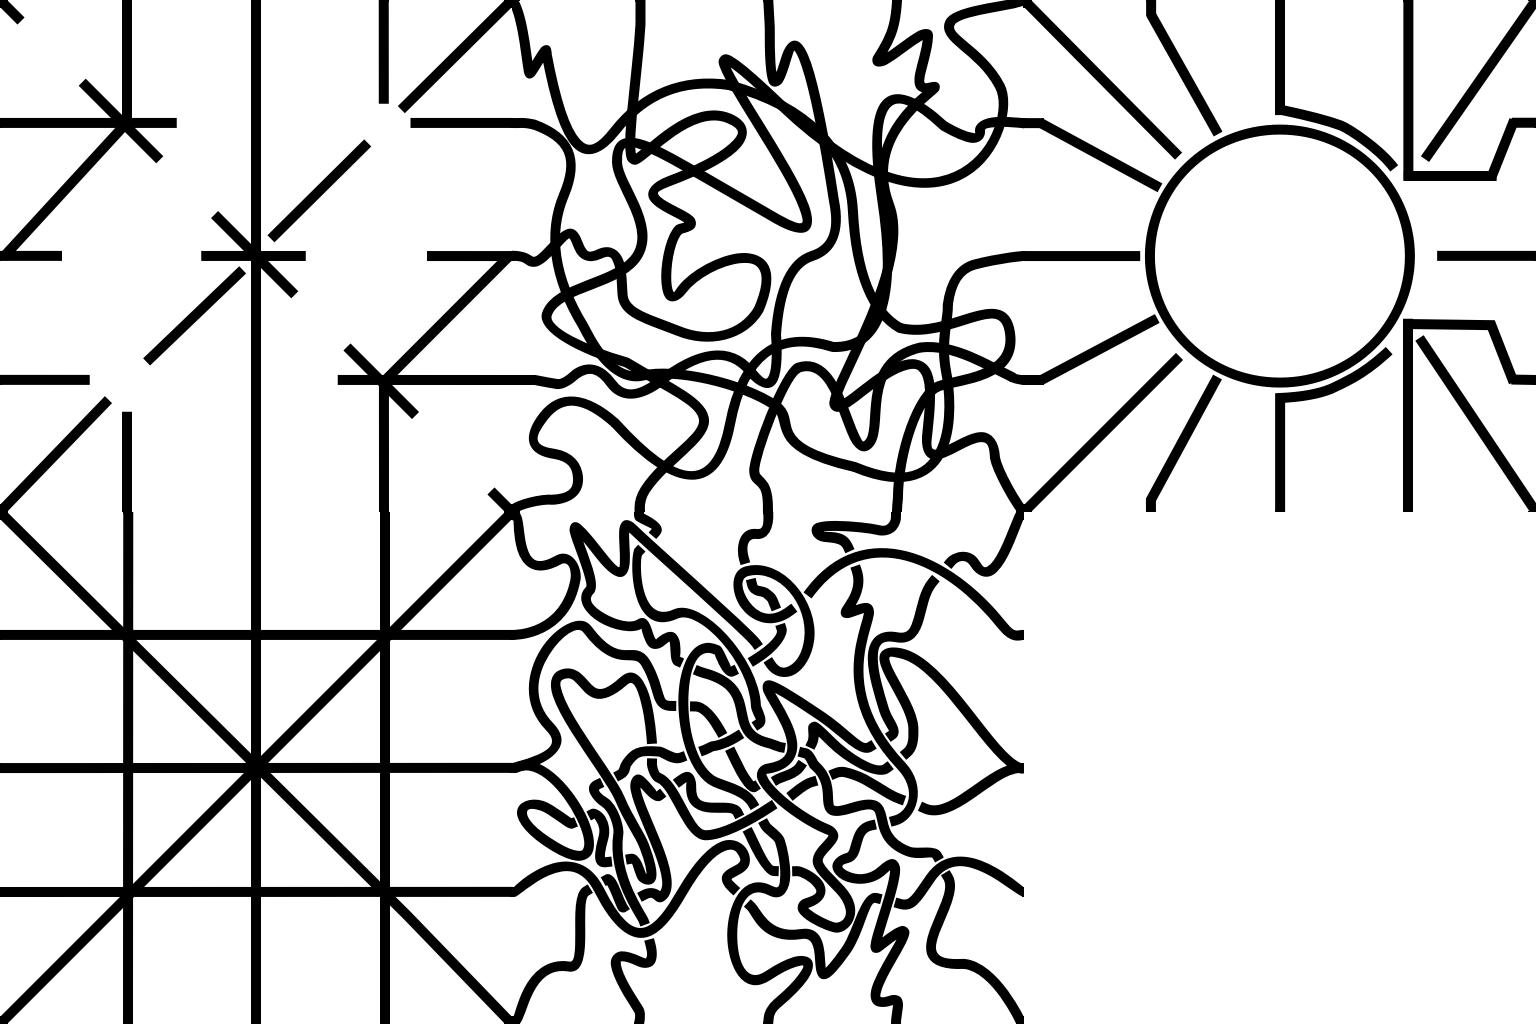
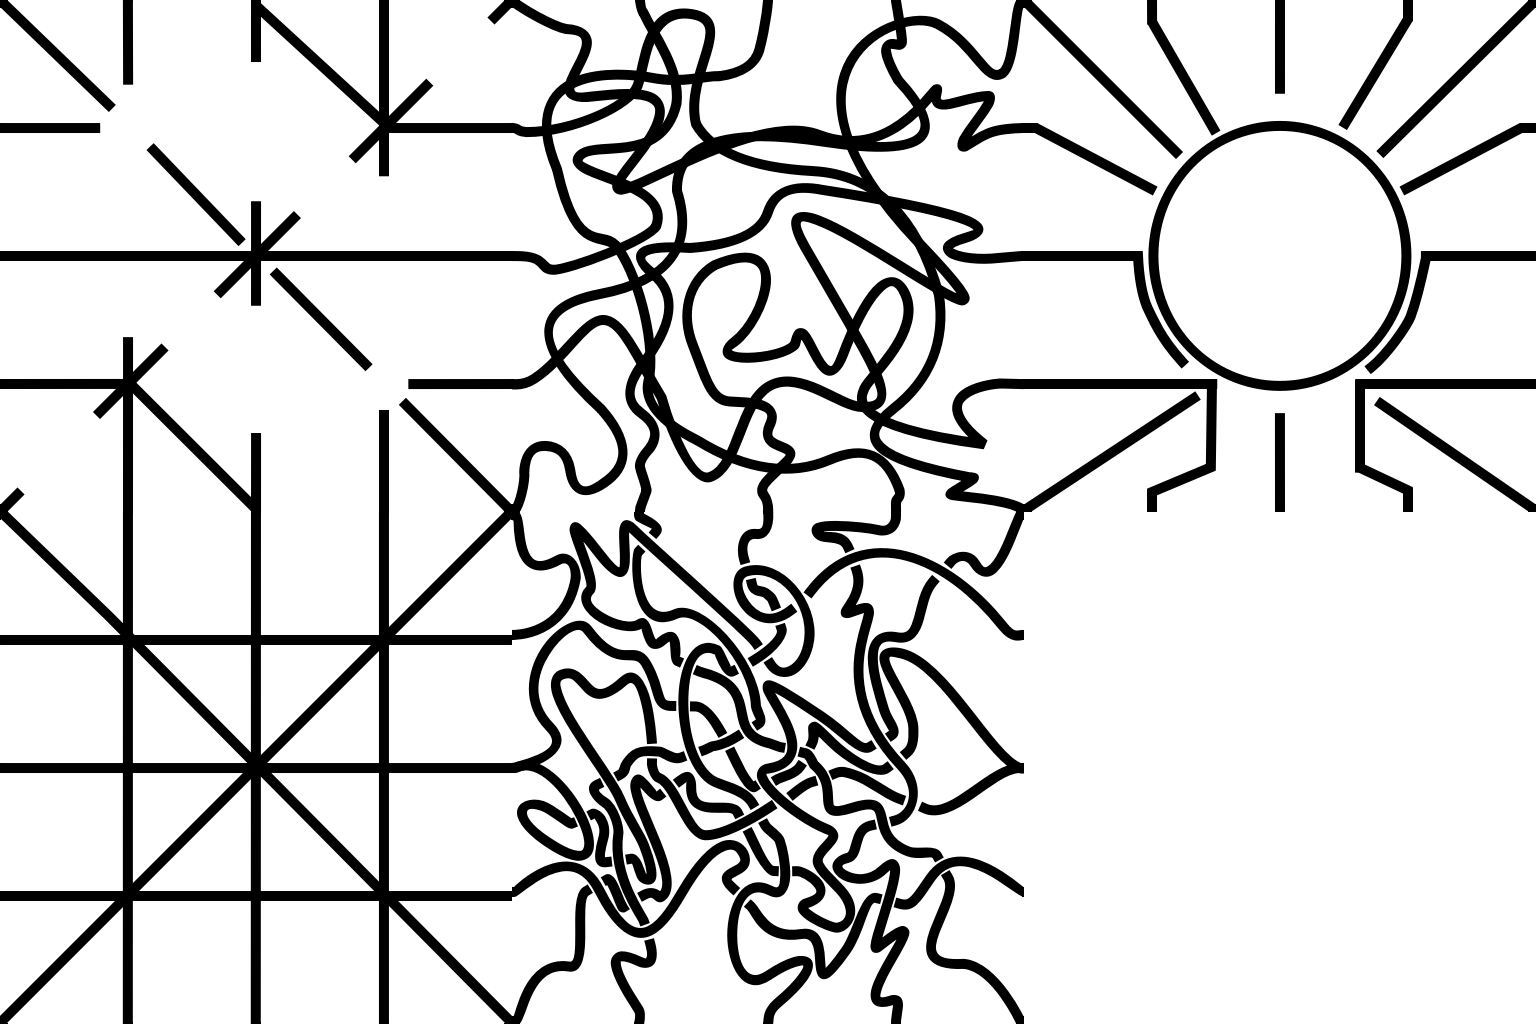
Added ability to exclude specific tiles and randomize direction of tiles

diff --git a/src/app/constants/constants.component.ts b/src/app/constants/constants.component.ts
@@ -1,15 +1,18 @@
 import { DOCUMENT } from '@angular/common';
-import { inject, InjectionToken } from '@angular/core';
+import { inject } from '@angular/core';
 
 export const TilePxSize = 512;
 export const TilesetRows = 3;
 export const TilesetCols = 2;
 export const TilesetPxWidth = TilePxSize * TilesetRows;
 export const TilesetPxHeight = TilePxSize * TilesetCols;
-export const TilesetOptions = 5;
+export const TilesetOptions = [0,1,2,3,4];
+const directions = ["", "right", "back", "left"]
+
 export class utilConstants {
   private readonly document = inject(DOCUMENT);
   private readonly window = this.document.defaultView;
+  private ExcludedTiles:number[] = [4]
   isMobile(): boolean {
     return /Android|webOS|iPhone|iPad|iPod|BlackBerry|IEMobile|Opera Mini/i.test(
       navigator.userAgent
@@ -34,5 +37,13 @@ export class utilConstants {
   }
   timeout(ms: number) {
     return new Promise((resolve) => setTimeout(resolve, ms));
+  }
+  getRandomFromAvailableTiles(){
+    let adjustedTileset = TilesetOptions.filter(element => !this.ExcludedTiles.includes(element));
+    let chosenId = Math.floor(Math.random() * adjustedTileset.length);
+    return adjustedTileset[chosenId];
+  }
+  getRandomDirection(){
+    return directions[Math.floor(Math.random()*4)];
   }
 }

diff --git a/src/app/tile-component/tile-component.component.ts b/src/app/tile-component/tile-component.component.ts
@@ -1,5 +1,5 @@
 import { Component, Input } from '@angular/core';
-import { TilesetRows, TilePxSize, TilesetPxHeight, TilesetPxWidth, TilesetOptions } from '../constants/constants.component';
+import { TilesetRows, TilePxSize, TilesetPxHeight, TilesetPxWidth, TilesetOptions, utilConstants } from '../constants/constants.component';
 @Component({
   selector: 'tile-component',
   imports: [],
@@ -7,16 +7,18 @@ import { TilesetRows, TilePxSize, TilesetPxHeight, TilesetPxWidth, TilesetOption
   styleUrl: './tile-component.component.scss'
 })
 export class TileComponent {
-  @Input() zoomLevel = 1
+  @Input() zoomLevel = 1 //set by app component
   tilePxSize = TilePxSize
   tilesetPxWidth = TilesetPxWidth
   tilesetPxHeight = TilesetPxHeight
+  util = new utilConstants();
 
-  tileId = Math.floor(Math.random() * TilesetOptions)
+  tileId = this.util.getRandomFromAvailableTiles()
   tileIdX = ((this.tileId) % TilesetRows)
   startPxX = this.tileIdX * TilePxSize * -1
   tileIdY = (Math.floor(this.tileId / TilesetRows))
-  startPxY = this.tileIdY * TilePxSize * -1
+  startPxY = this.tileIdY * TilePxSize * -1;
+  direction = this.util.getRandomDirection();
 
   constructor(){
   }

diff --git a/src/app/app.component.ts b/src/app/app.component.ts
@@ -10,7 +10,7 @@ import { NgFor } from '@angular/common';
 })
 export class AppComponent {
   title = 'tileset-viewer';
-  zoomLevel = 0.5;
+  zoomLevel = 0.25;
   adjustedPxSize = TilePxSize * this.zoomLevel
   util = new utilConstants()
   tileGen:number[] = []

diff --git a/src/app/tile-component/tile-component.component.scss b/src/app/tile-component/tile-component.component.scss
@@ -1,7 +1,17 @@
-.tileHolder{
+.tileDiv{
     position: relative;
     z-index: -2;
     overflow: hidden;
+
+    &.right{
+        rotate: 90deg;
+    }
+    &.back{
+        rotate: 180deg;
+    }
+    &.left{
+        rotate: 270deg;
+    }
 }
 
 .tile{

diff --git a/src/app/tile-component/tile-component.component.html b/src/app/tile-component/tile-component.component.html
@@ -1,5 +1,5 @@
 <div
-  class="tileHolder"
+  class="tileDiv {{direction}}"
   [style.width]="tilePxSize * zoomLevel + 'px'"
   [style.height]="tilePxSize * zoomLevel + 'px'"
 >
